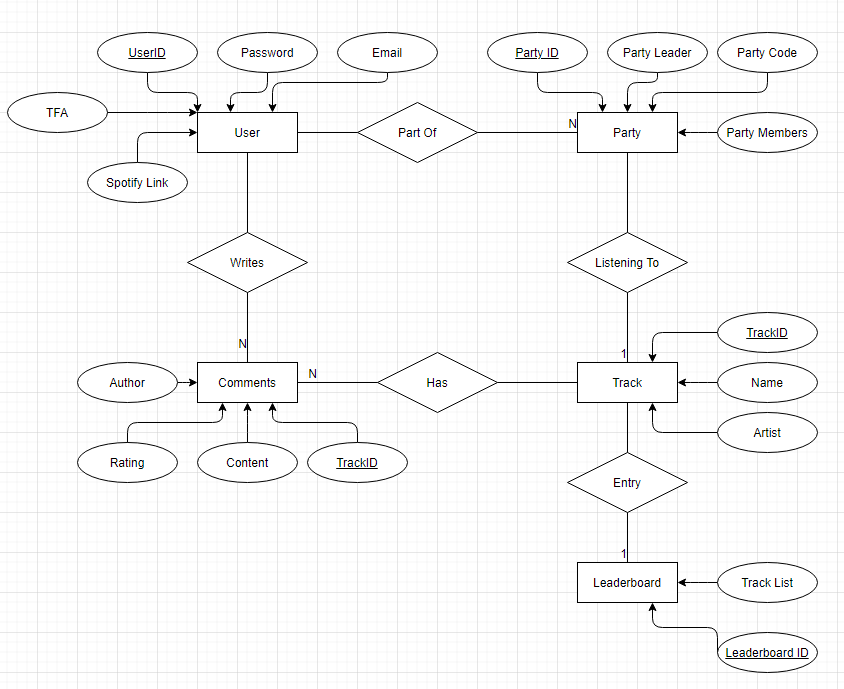
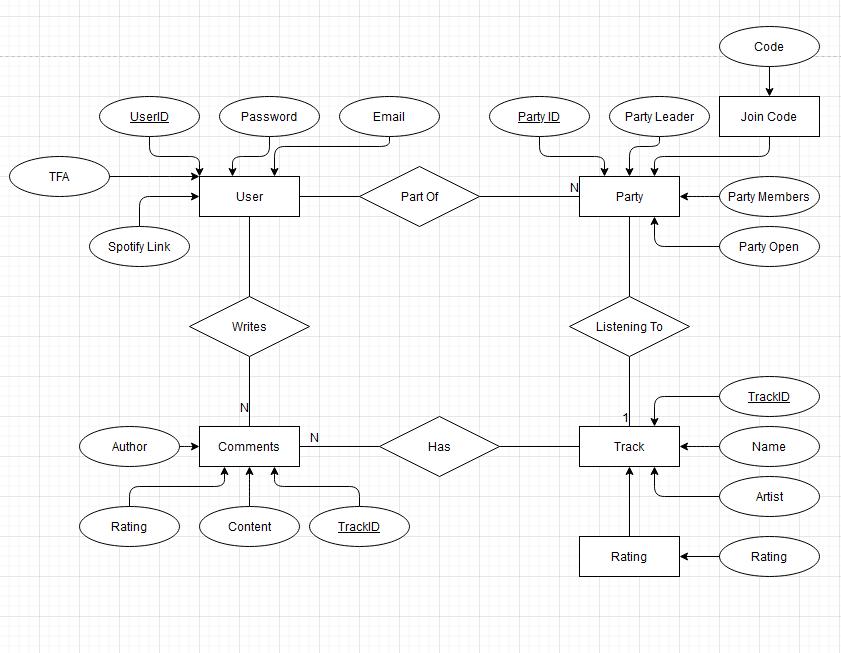
Updates Architecture
Updates architecture document, Database ER Diagram, and Class Diagram

diff --git a/artifacts/architecture.md b/artifacts/architecture.md
@@ -65,11 +65,11 @@ Our system component diagram splits up the VibeCity system into vital components
 
 ![Code Design UML Diagram](https://raw.githubusercontent.com/aidanthewiz/VibeCity/master/artifacts/FINALfinalControlDiagramRevision1.PNG)
 
-The user in the class diagram should hold the users ID, the users Password, the users Email, and the users spotify
-account link. The user shall be able to modify there information. The users should be able to create private parties
-that have a party ID, party passcode, party members, and assign a party leader. In the party class the user can create,
+The user in the class diagram should hold the users ID, the users Password, the users Email, the users two factor authentication, and the users spotify
+account link. The user shall be able to modify their information. The users should be able to create private parties
+that have a party ID, party join code, party members, the state of the party being open or closed, and assign a party leader. In the party class the user can create,
 close, share the party information, and set the song to listen to. Users can vote on tracks that they like. The tracks
-are listed on a leaderboard. The comment class allows the users to comment on certain tracks that they have listened. In
+are listed on a leaderboard. The comment class allows the users to comment on certain tracks that they have listened to. In
 the comment class the user can write content, give a rating, list who made the comment, and show what song these
 comments were applied to.
 
@@ -81,7 +81,6 @@ comments were applied to.
 | Party Controller          |  004, 006, 007, 019      |
 | Email Model               |  003, 015, 17            |
 | User Model                |  000, 001, 002           |
-| Leaderboard Model         |  008, 009, 010, 013      |
 | Track Model               |  008, 009, 010, 013      |
 | Comment Model             |  008, 009, 010, 013      |
 | Party Model               |  004, 005, 006, 007, 014 |
@@ -99,9 +98,9 @@ actions. Finally, the system ends with the user logging out.
 
 ![Database ER Diagram](https://raw.githubusercontent.com/aidanthewiz/VibeCity/master/artifacts/Database%20ER%20Diagram.png)
 
-The user should be able to join a party and add comments to tracks. Partys should be able to listen to tracks. Tracks
-should be able to have comments on them and have rankings on the leaderboards. The Party should leader should be able to kick people from the party.
-The party leader is able to select which strong can be played. The leaderboard gives users the options to see which songs are trending and to vote songs to get on the leaderboard.
+The user should be able to join a party and add comments to tracks. Parties should be able to listen to tracks. Tracks
+should be able to have comments on them. The Party should leader should be able to kick people from the party.
+The party leader is able to select which strong can be played. 
 
 # Business Rules
 
